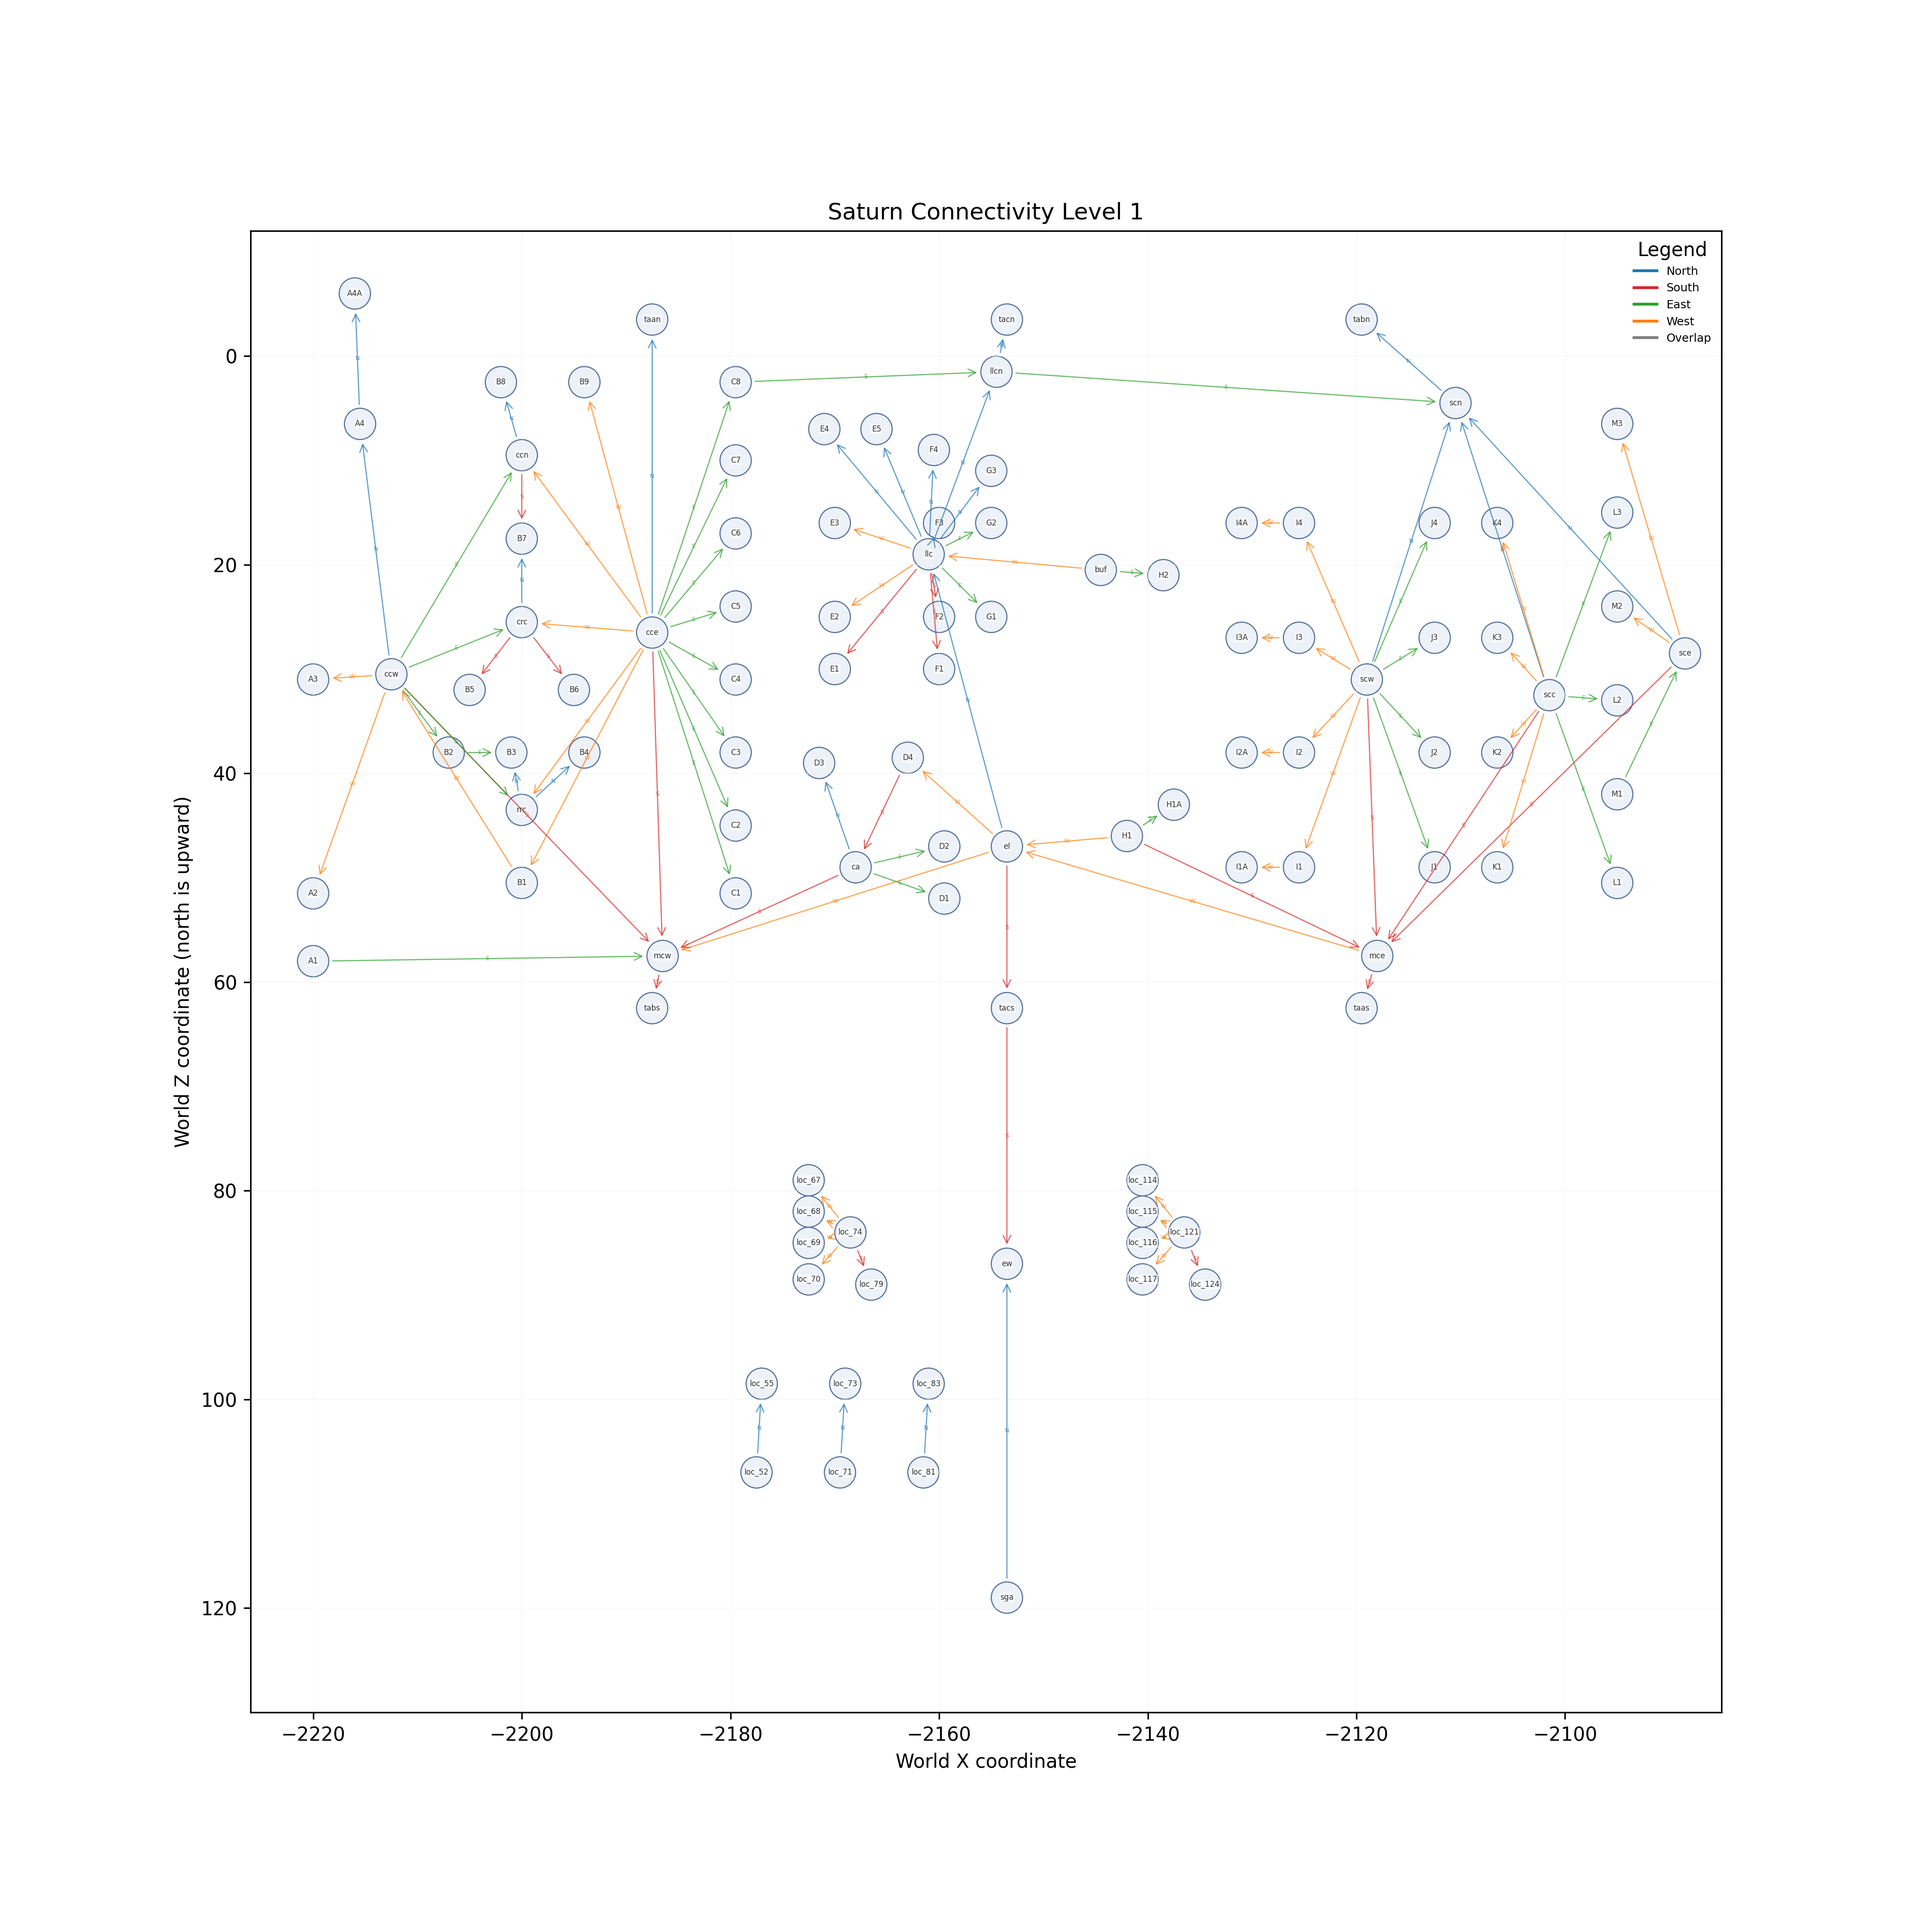
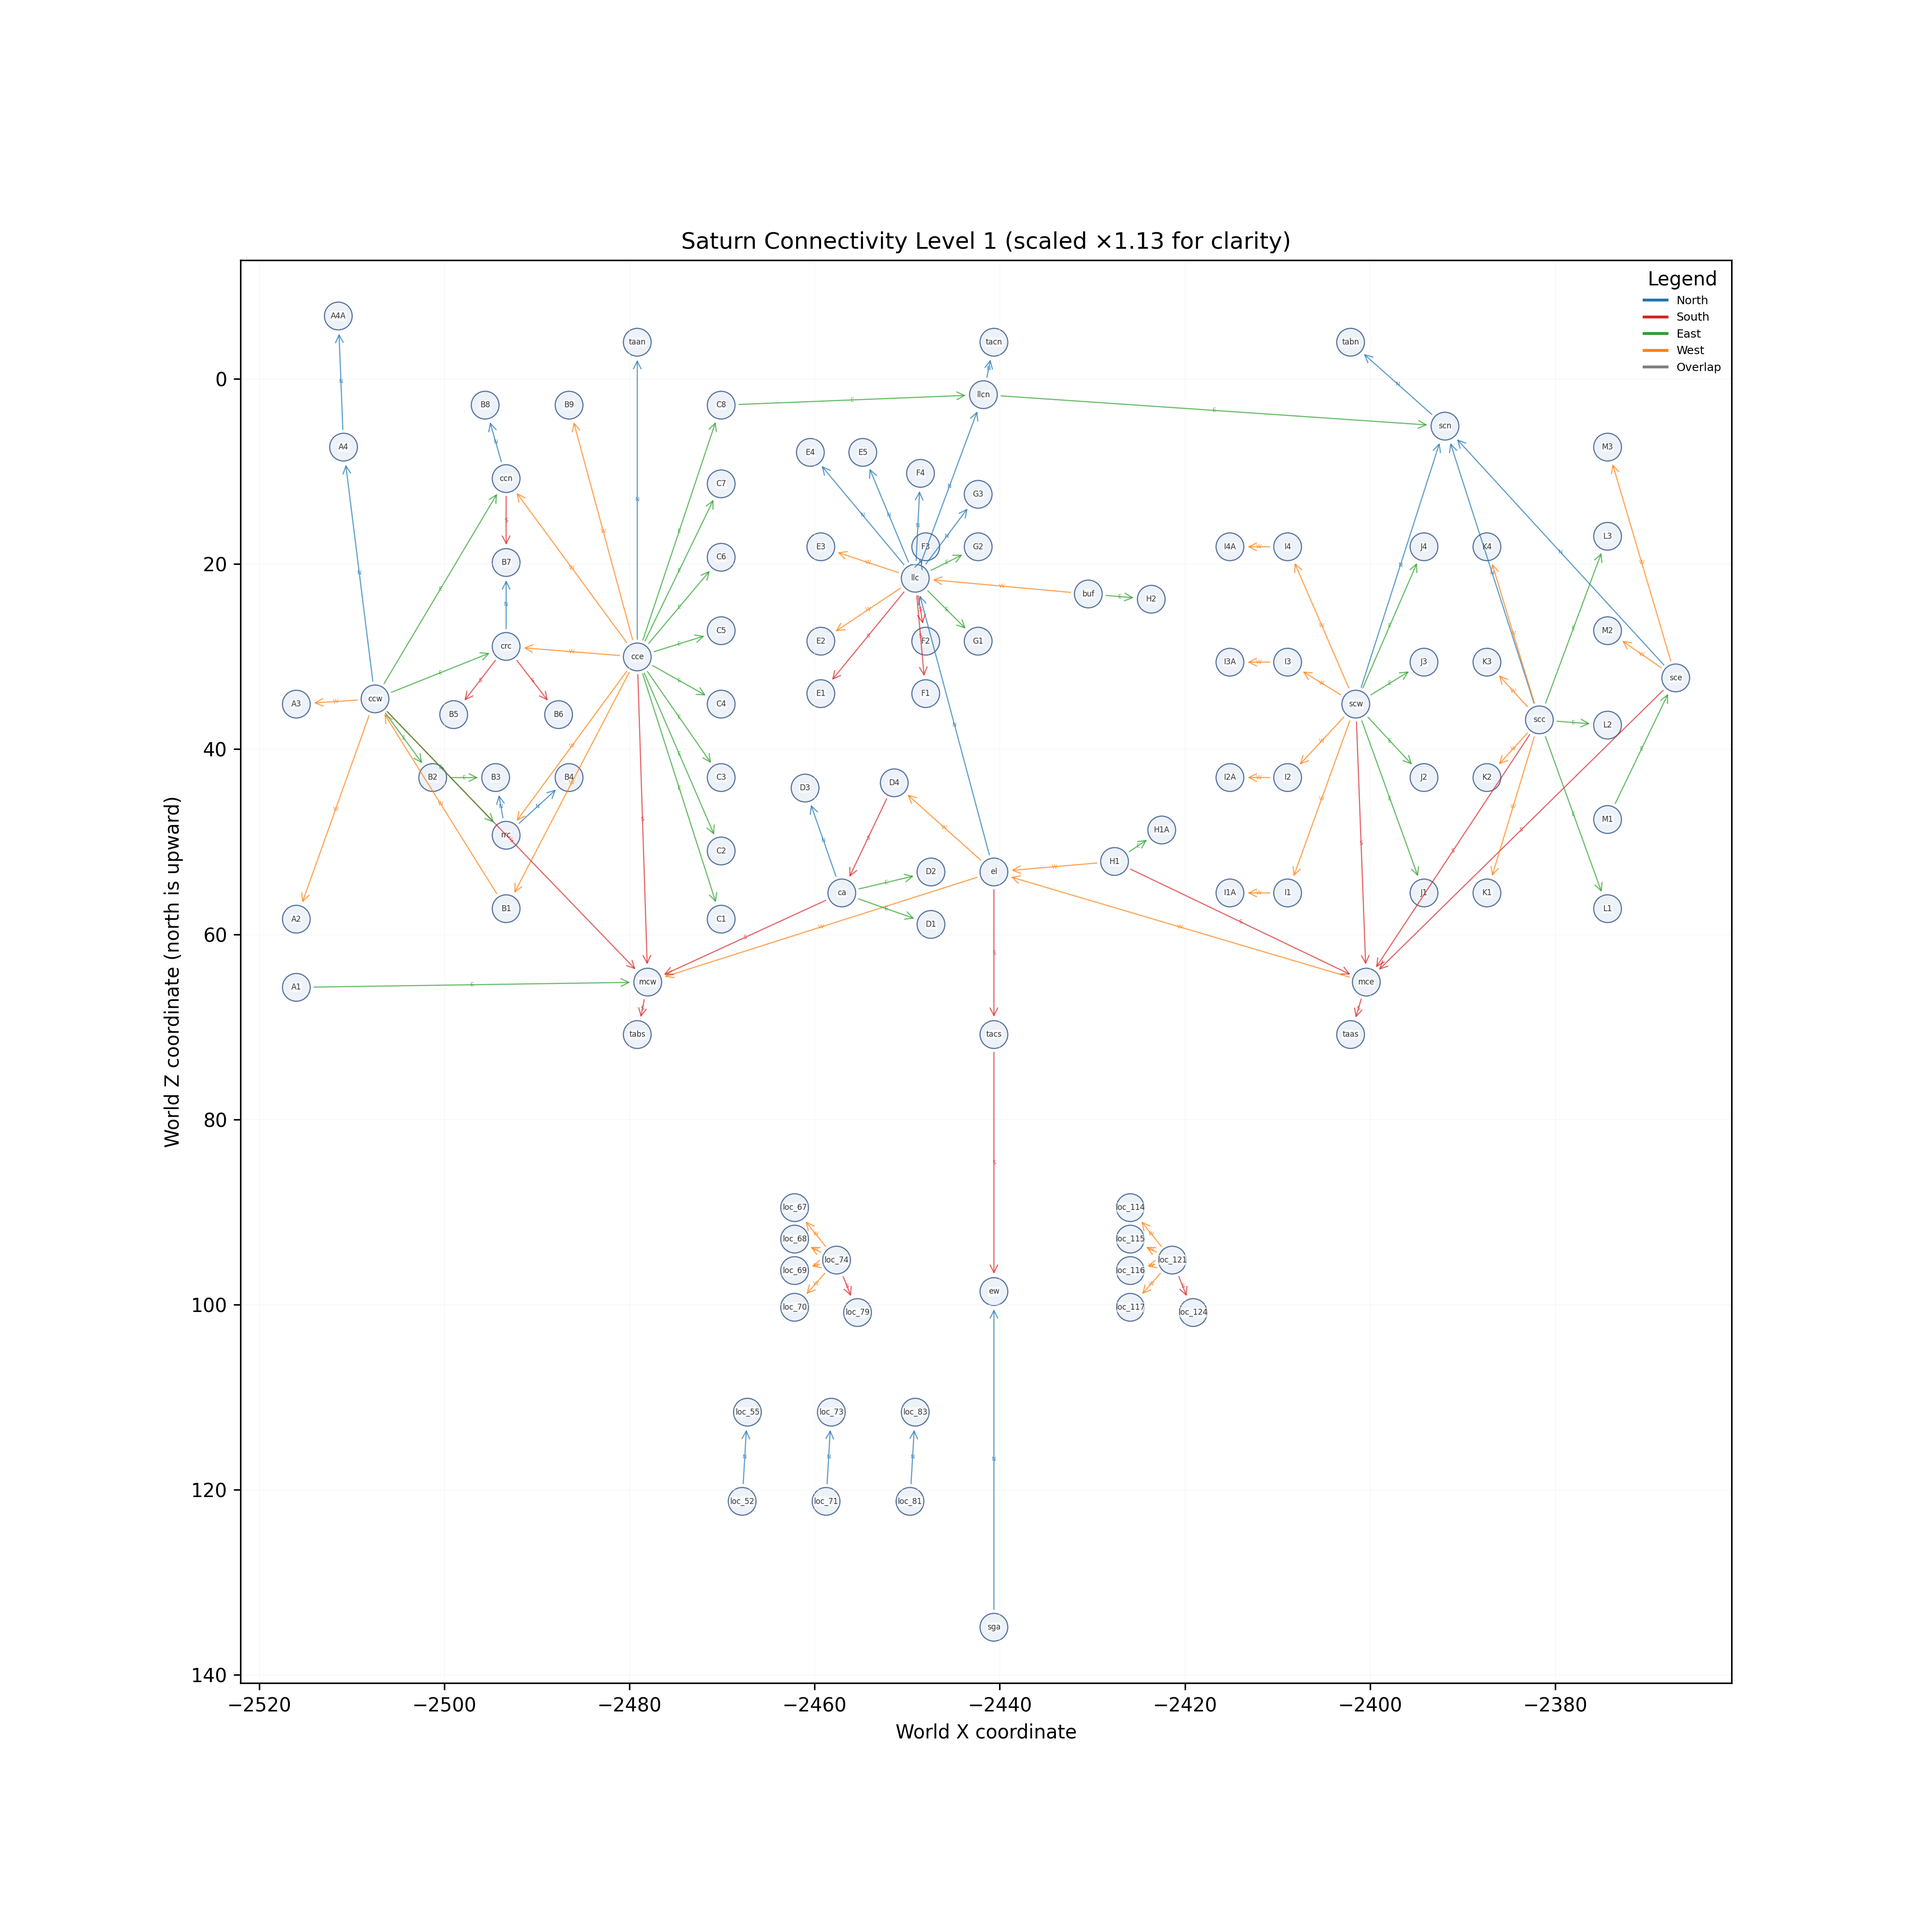
feat: scale layout to avoid node overlap

diff --git a/utils/build_saturn_connectivity.py b/utils/build_saturn_connectivity.py
@@ -324,20 +324,45 @@ def plot_level(
         LOGGER.warning("No drawable bounds found for level %s", level)
         return
 
-    min_x = min(b.min_x for b in level_bounds.values())
-    max_x = max(b.max_x for b in level_bounds.values())
-    min_z = min(b.min_z for b in level_bounds.values())
-    max_z = max(b.max_z for b in level_bounds.values())
-    margin = 2.0
+    centers = {node: bounds[node].center for node in level_bounds}
+    positive_distances: List[float] = []
+    nodes = list(centers.items())
+    for idx, (node, (cx, cz)) in enumerate(nodes):
+        for _, (tx, tz) in nodes[idx + 1 :]:
+            dx = cx - tx
+            dz = cz - tz
+            dist = (dx * dx + dz * dz) ** 0.5
+            if dist > EPSILON:
+                positive_distances.append(dist)
+
+    min_distance = min(positive_distances) if positive_distances else float("inf")
+    desired_spacing = (2 * NODE_RADIUS) + 0.4
+    scale_factor = 1.0
+    if min_distance < desired_spacing and min_distance > 0:
+        scale_factor = desired_spacing / min_distance
+
+    display_centers = {
+        node: (cx * scale_factor, cz * scale_factor) for node, (cx, cz) in centers.items()
+    }
+
+    xs = [cx for cx, _ in display_centers.values()]
+    zs = [cz for _, cz in display_centers.values()]
+    margin = 2.0 * scale_factor
+    min_x = min(xs) - (NODE_RADIUS + margin)
+    max_x = max(xs) + (NODE_RADIUS + margin)
+    min_z = min(zs) - (NODE_RADIUS + margin)
+    max_z = max(zs) + (NODE_RADIUS + margin)
 
     fig, ax = plt.subplots(figsize=(14, 14))
     ax.set_aspect("equal", adjustable="box")
-    ax.set_title(f"Saturn Connectivity Level {level}")
+    title = f"Saturn Connectivity Level {level}"
+    if scale_factor > 1.01:
+        title += f" (scaled ×{scale_factor:.2f} for clarity)"
+    ax.set_title(title)
     ax.set_xlabel("World X coordinate")
     ax.set_ylabel("World Z coordinate (north is upward)")
 
-    for node, bbox in level_bounds.items():
-        cx, cz = bbox.center
+    for node, (cx, cz) in display_centers.items():
         circle = Circle(
             (cx, cz),
             radius=NODE_RADIUS,
@@ -364,18 +389,17 @@ def plot_level(
 
     drawn_edges: set[Tuple[str, str]] = set()
     for src, orientation_map in graph.items():
-        src_bbox = bounds[src]
-        src_cx, src_cz = src_bbox.center
+        src_cx, src_cz = display_centers[src]
         for direction, neighbors in orientation_map.items():
             color = ARROW_COLORS.get(direction, "#000000")
             for neighbor in neighbors:
                 key = tuple(sorted((src, neighbor)))
                 if key in drawn_edges:
                     continue
-                dst_bbox = bounds.get(neighbor)
-                if dst_bbox is None:
+                dst_center = display_centers.get(neighbor)
+                if dst_center is None:
                     continue
-                dst_cx, dst_cz = dst_bbox.center
+                dst_cx, dst_cz = dst_center
                 dx = dst_cx - src_cx
                 dz = dst_cz - src_cz
                 dist = max((dx**2 + dz**2) ** 0.5, EPSILON)
